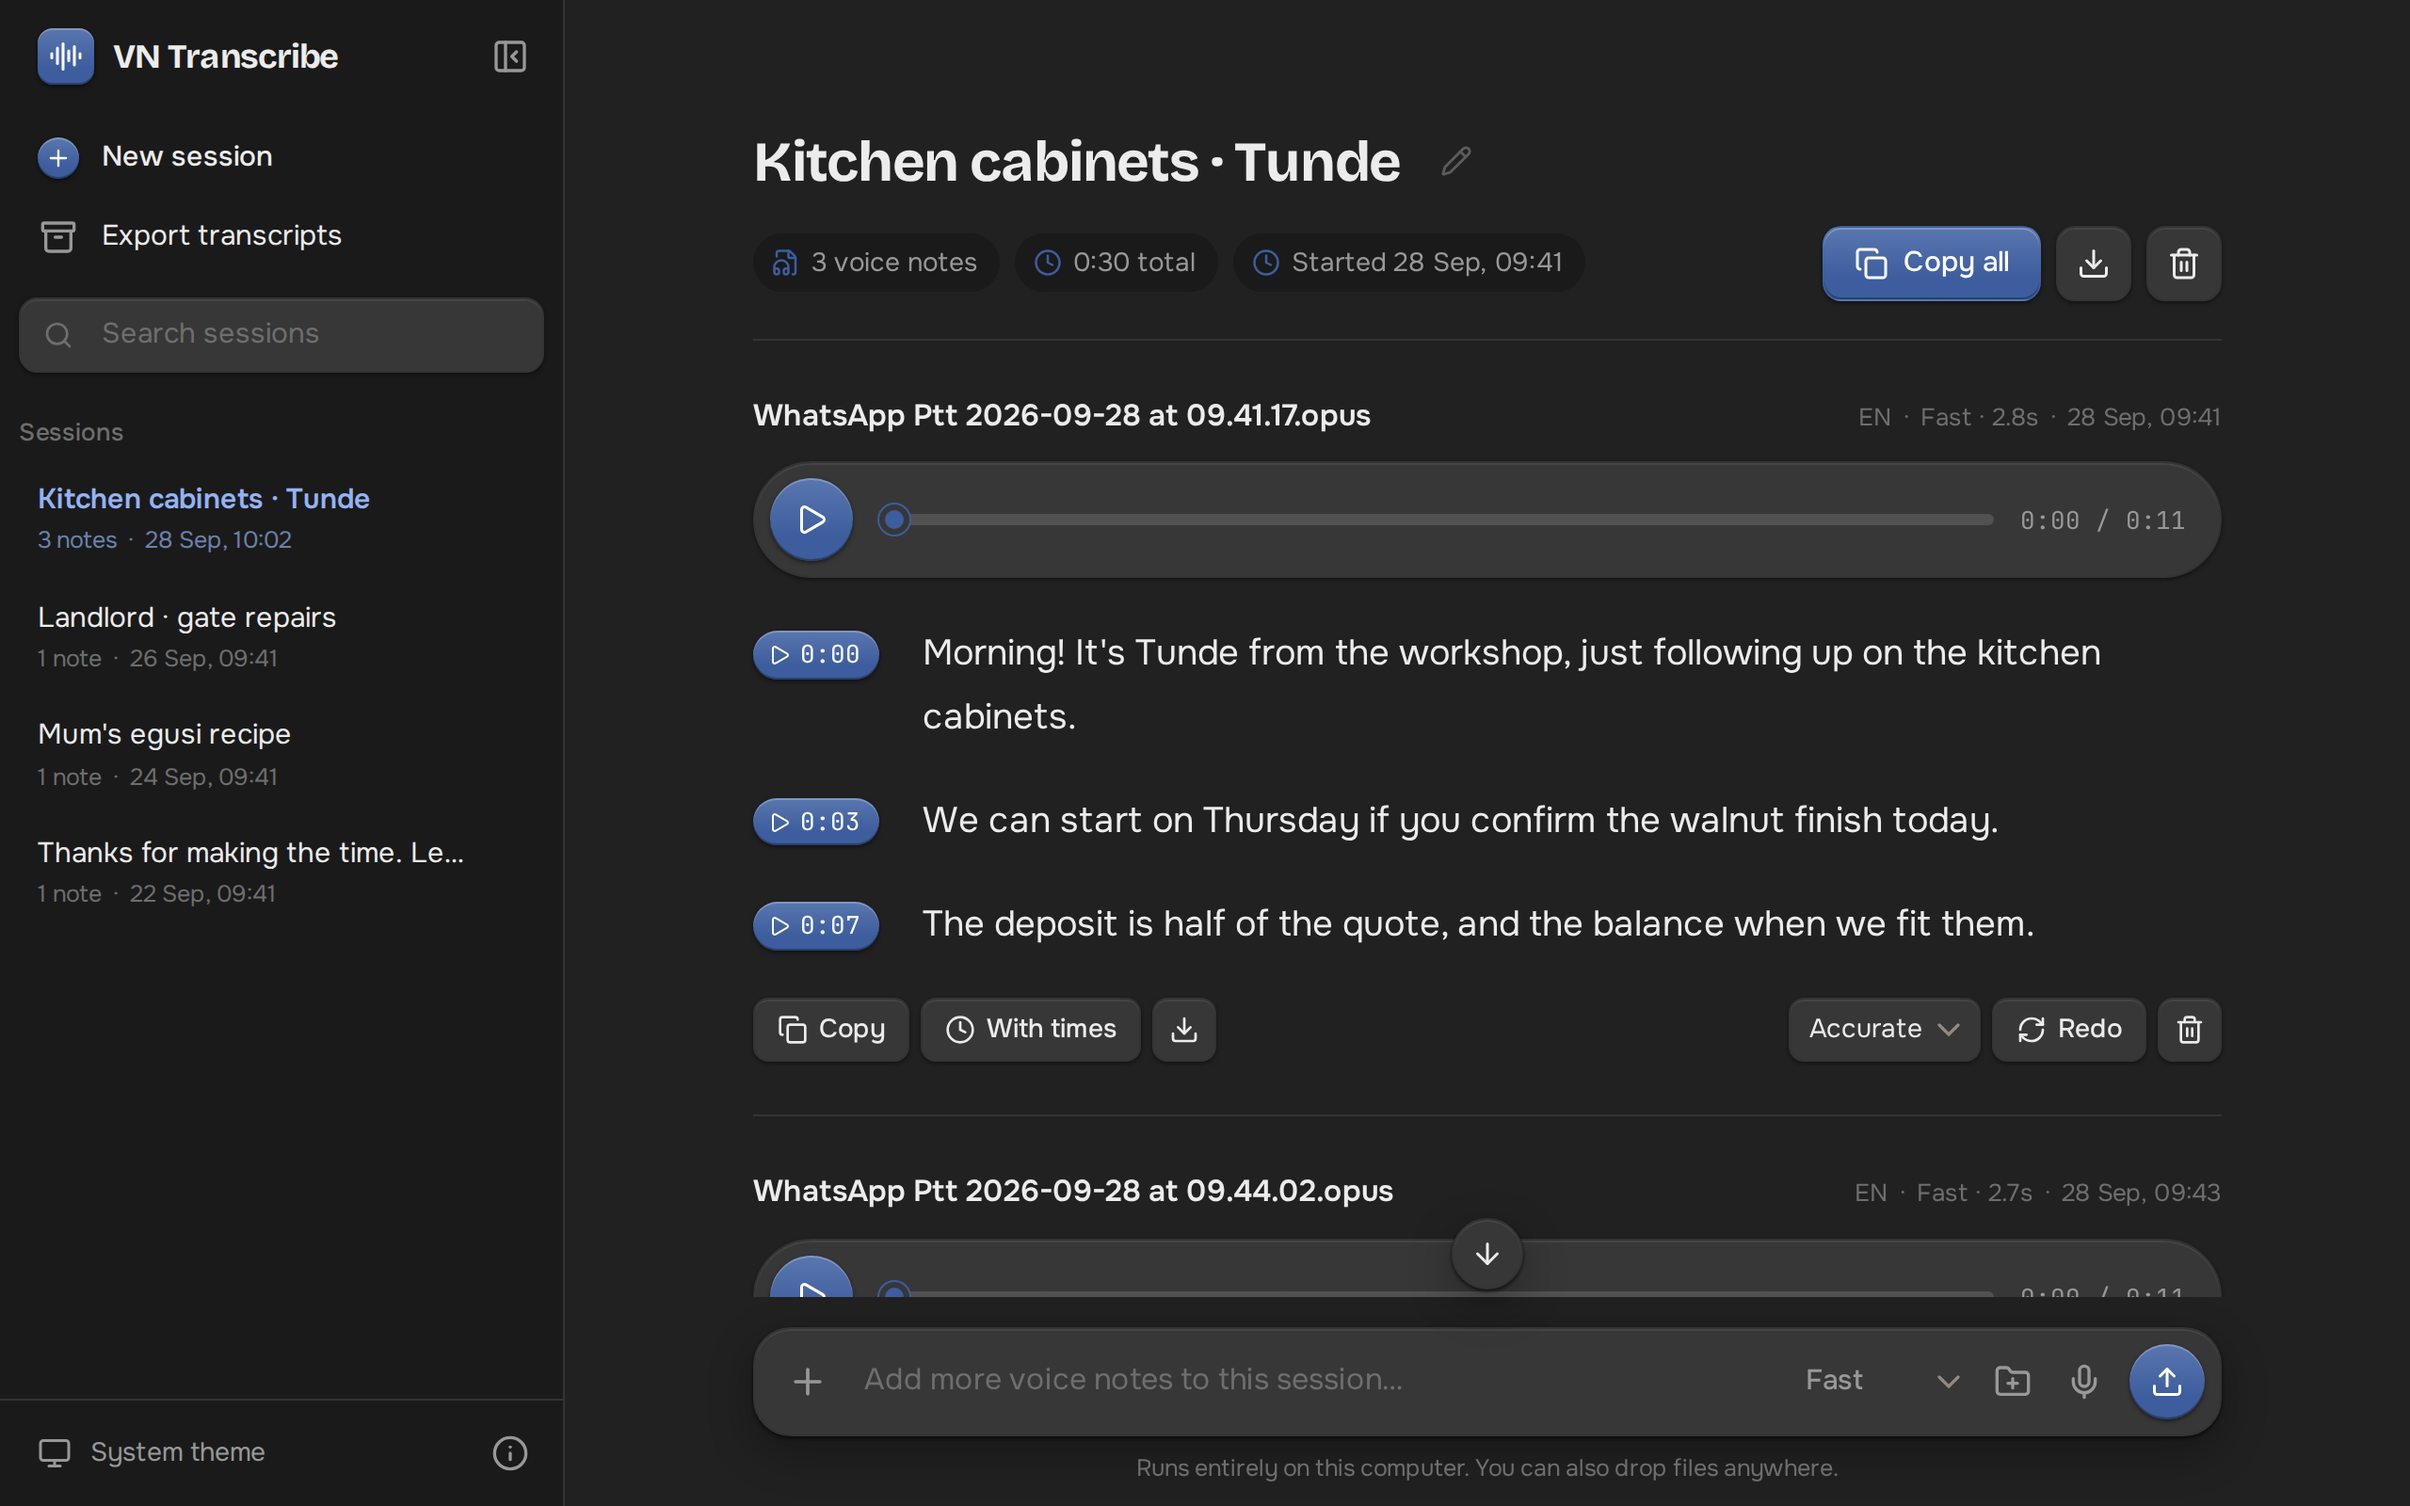
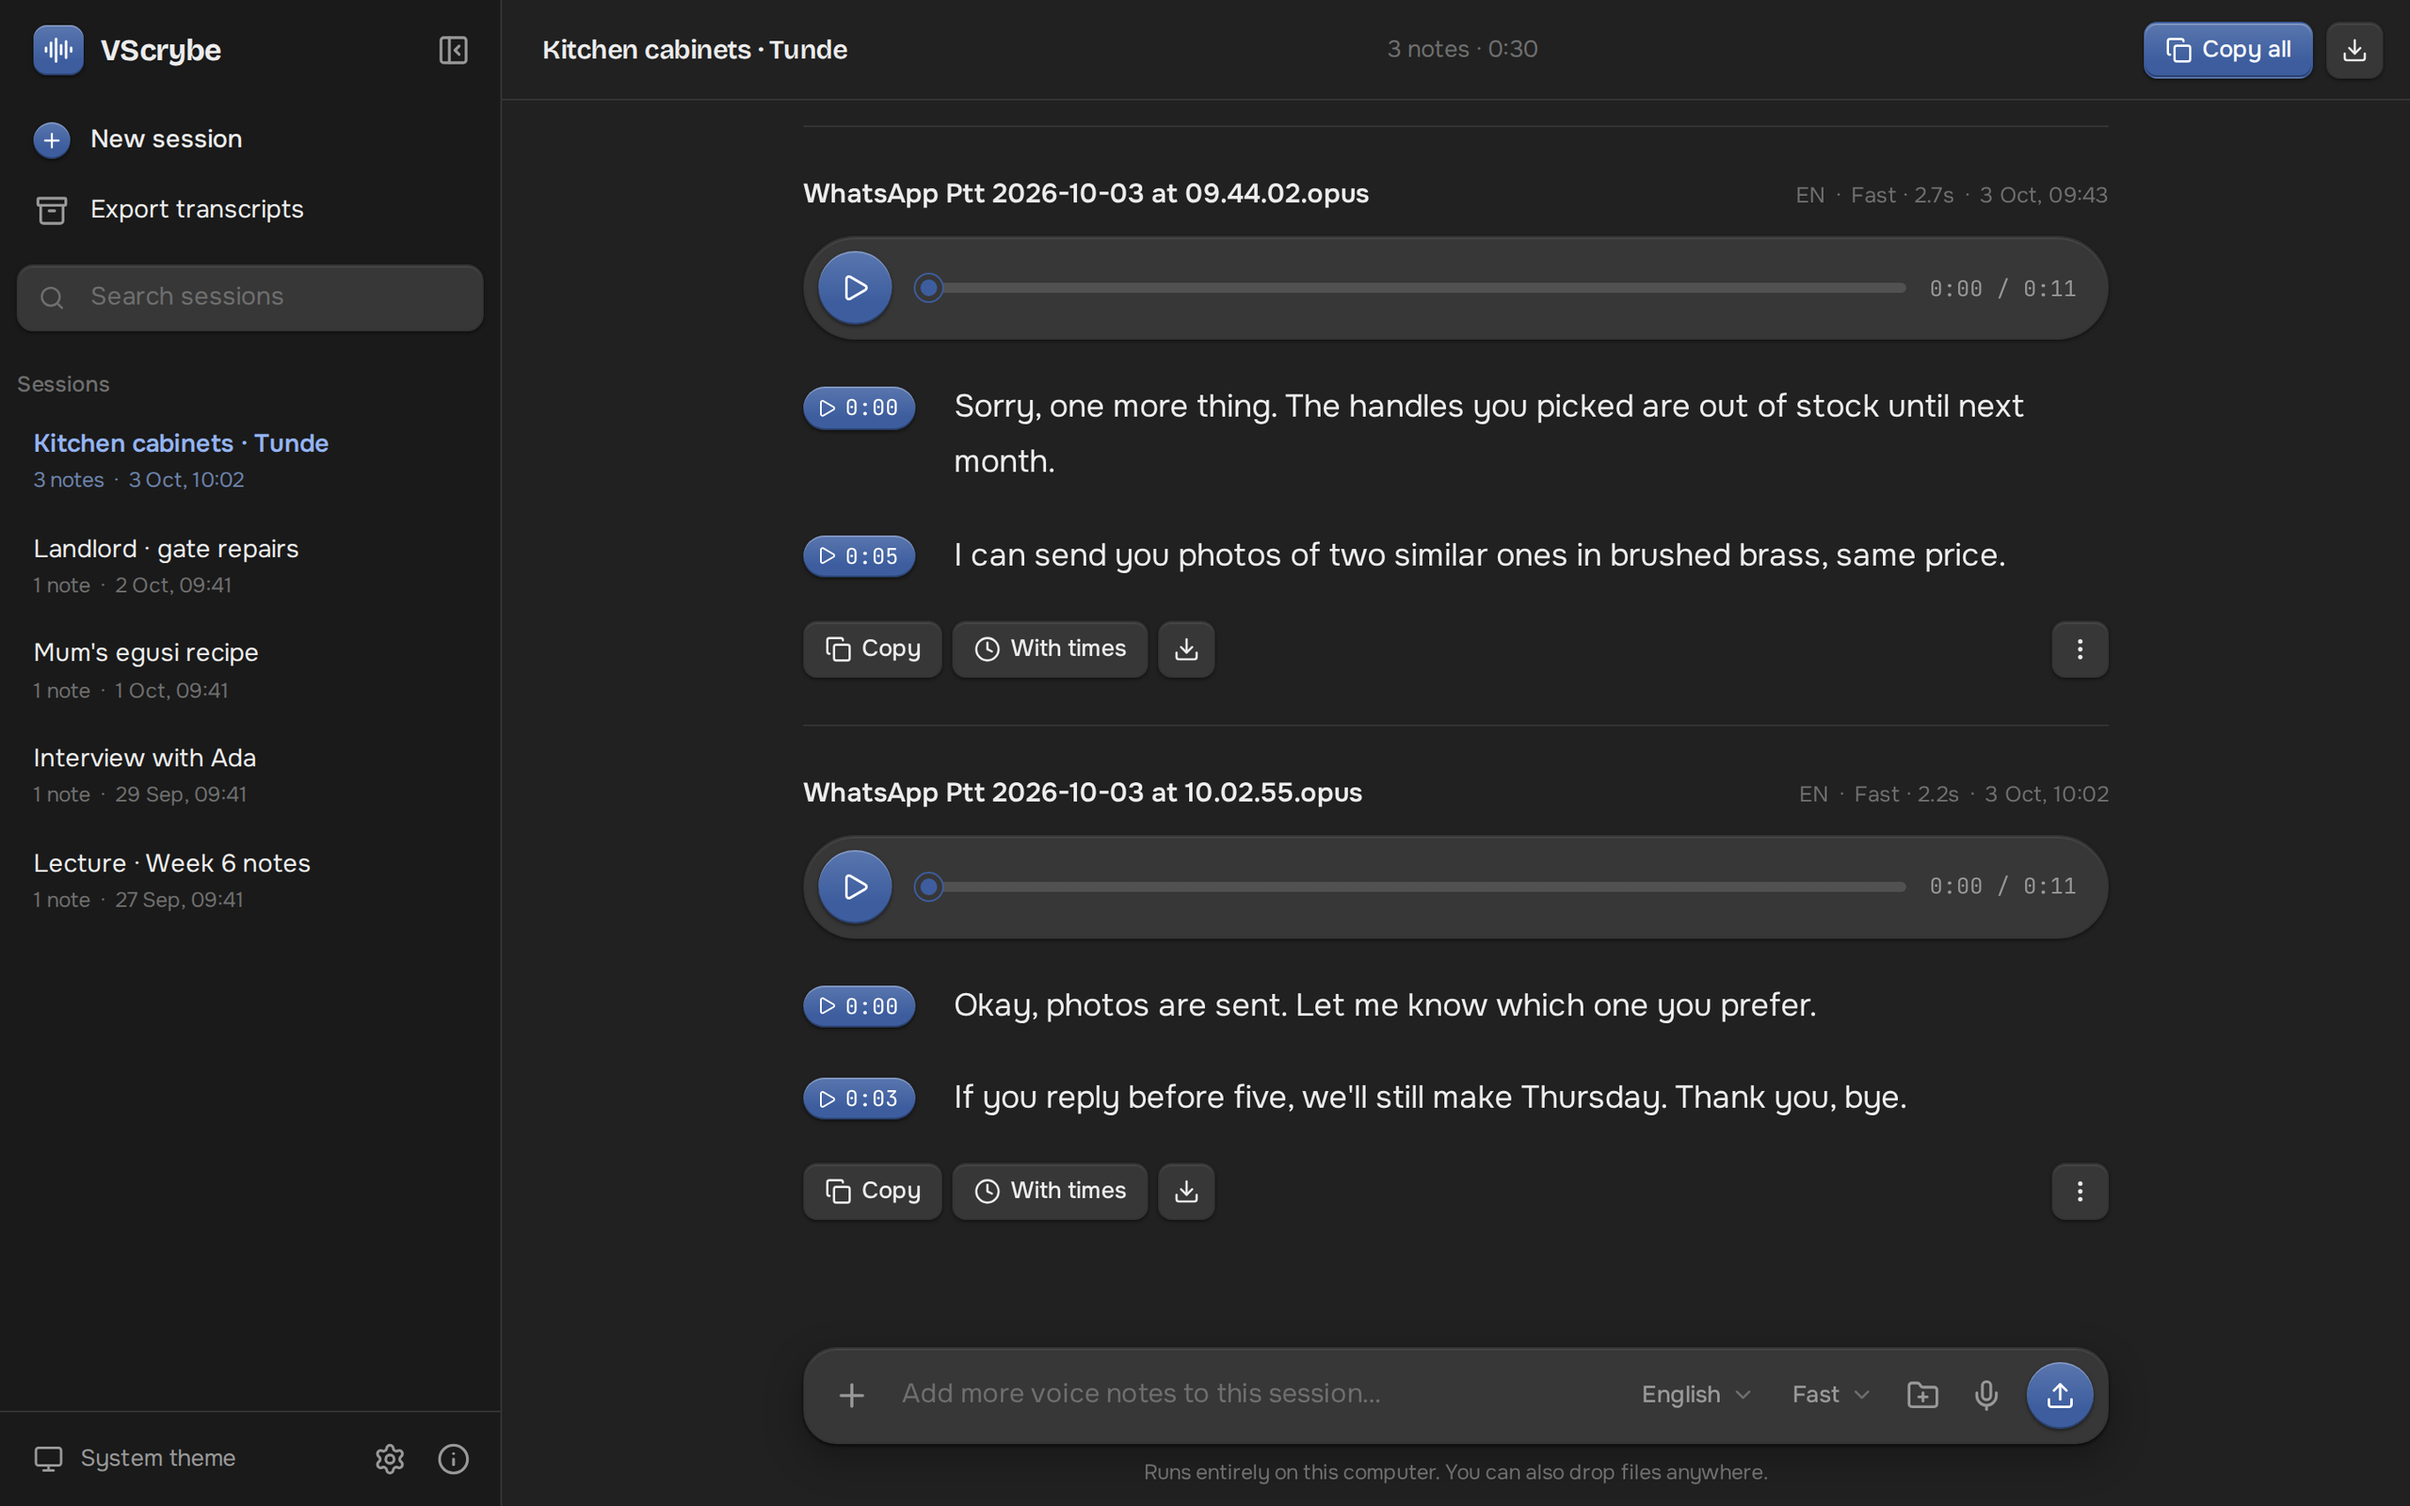
Show VScrybe in the share card and README screenshots, and note the rename in the changelog

diff --git a/CHANGELOG.md b/CHANGELOG.md
@@ -15,6 +15,8 @@ First public release, now also for Windows and macOS.
 - Windows and macOS builds, for both Apple silicon and Intel Macs, and an AppImage for any Linux distribution.
 
 ### Changed
+- vScribe is now VScrybe. Notes, settings and downloaded models move to the new name's folders the first
+  time it starts.
 - Audio is decoded by FFmpeg built into VScrybe, so nothing has to be installed on any system. It is also more
   accurate than the GStreamer pipeline it replaces (stereo was mixed down about 3 dB too quiet).
 - Only one model is kept in memory at a time, and uploads are written to disk instead of held in memory.
@@ -28,6 +30,8 @@ First public release, now also for Windows and macOS.
 - Download progress stayed at 0% until a model finished, and a second download waited behind the first.
 - Gated Hugging Face models failed with "check your internet connection"; they are now marked and refused.
 - Dialogs covered the window controls, and clicking a "Transcription finished" notification didn't open the app.
+- Quitting while a note was being transcribed could crash the app. It now stops cleanly, and the note picks up
+  again the next time VScrybe starts.
 
 ## [0.2.0] - 2026-10-01
 
